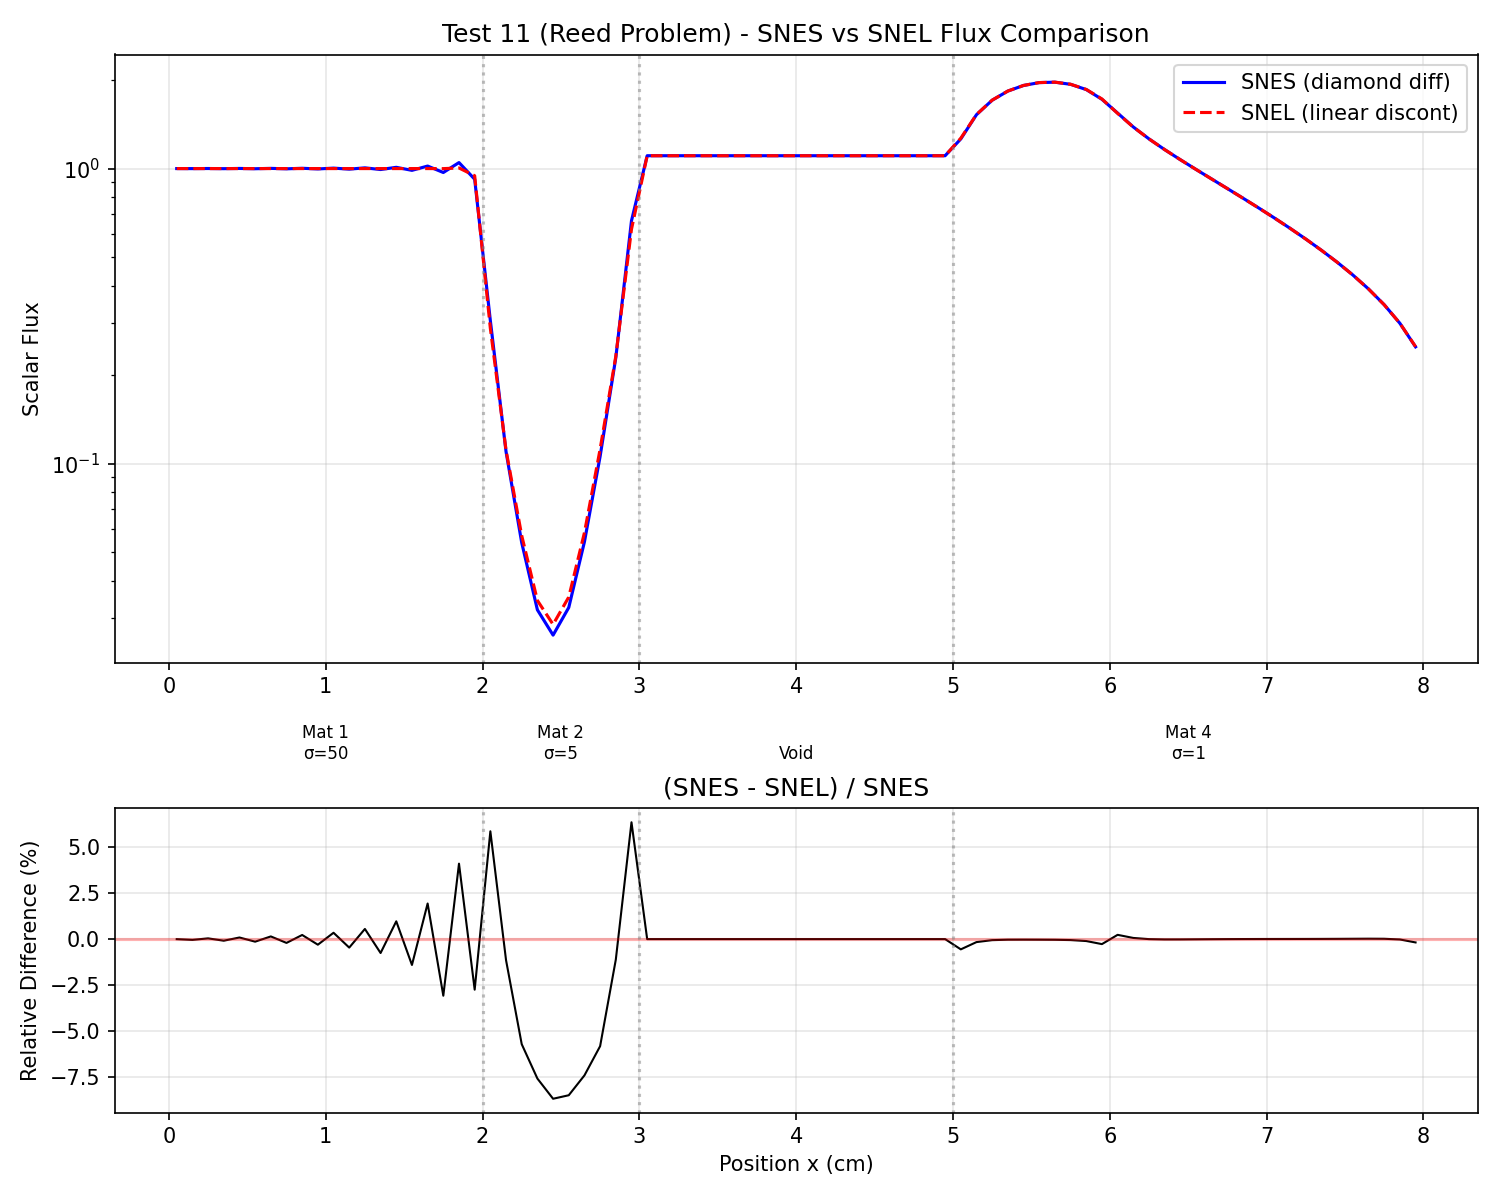
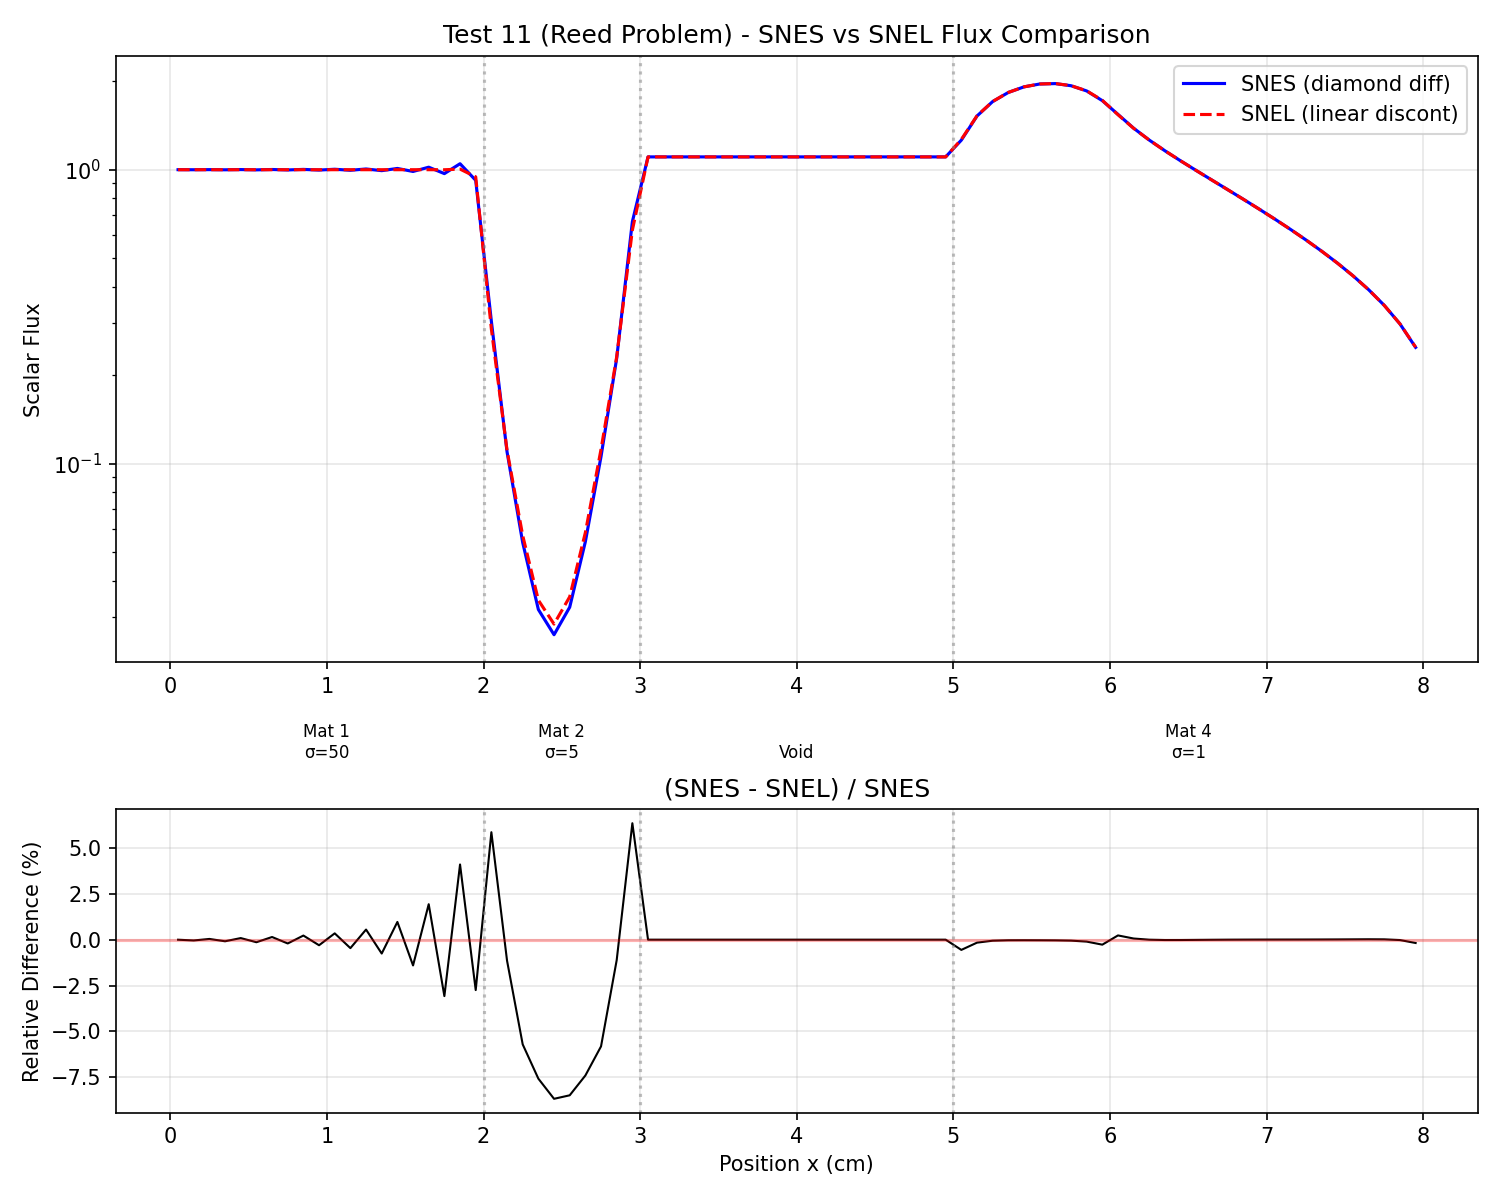
refactor: track verification outputs in make

diff --git a/verification.py b/verification.py
@@ -1,8 +1,16 @@
 import matplotlib.pyplot as plt
-import re
 import glob
-import subprocess
 from pathlib import Path
+
+KEFF_PATTERN = "K EFFECTIVE"
+PLOT_OUTPUTS = [
+    "images/figures/keff_results.png",
+    "images/figures/test11_flux_comparison.png",
+]
+DOCS_PLOT_OUTPUTS = [
+    "docs/docs/images/keff_results.png",
+    "docs/docs/images/test11_flux_comparison.png",
+]
 
 
 def write_plot_gallery(image_paths):
@@ -79,12 +87,27 @@ def write_plot_gallery(image_paths):
     )
 
 
+def extract_keff_values(pattern):
+    """Extract k-effective values from matching output files."""
+    values = []
+    for filepath in sorted(glob.glob(pattern)):
+        with open(filepath, encoding="utf-8") as handle:
+            for line in handle:
+                if KEFF_PATTERN not in line:
+                    continue
+                values.append(float(line.split("=")[-1].strip()))
+                break
+    if not values:
+        raise ValueError(f"No {KEFF_PATTERN!r} lines found for pattern {pattern!r}")
+    return values
+
+
 def read_flux(filepath):
     """Read flux data from file, returning positions and flux values."""
     positions = []
     fluxes = []
-    with open(filepath) as f:
-        for line in f:
+    with open(filepath, encoding="utf-8") as handle:
+        for line in handle:
             line = line.strip()
             if not line or line.startswith("#"):
                 continue
@@ -101,109 +124,77 @@ def add_material_annotations(ax):
     ax.axvline(x=3.0, color="gray", linestyle=":", alpha=0.5)
     ax.axvline(x=5.0, color="gray", linestyle=":", alpha=0.5)
 
-# Run the tests and extract K_EFF values for snes
-subprocess.run(["make", "clobber"])
-subprocess.run(["make", "tests"])
+def plot_keff_results():
+    """Plot k-effective values for both schemes."""
+    snes = extract_keff_values("qa/*.outs")
+    snel = extract_keff_values("qa/*.outl")
+    n = len(snes)
+    x = range(1, n + 1)
+    xc = list(range(n + 2))
+    yc = [1 for _ in xc]
 
-# Extract K_EFF values for snes
-with open("/tmp/keffs", "w", encoding="utf-8") as f_out:
-    for file in sorted(glob.glob("qa/*.outs")):
-        with open(file, "r", encoding="utf-8") as f_in:
-            for line in f_in:
-                if "K EFFECTIVE" in line:
-                    match = re.search(r"K[ ]*EFFECTIVE[ ]*=[ ]*([0-9.]+)", line)
-                    if match:
-                        f_out.write(match.group(1) + "\n")
-                    else:
-                        print(f"No match found in line: {line}")
+    plt.figure(figsize=(20, 10))
+    plt.plot(x, snes, "o", color="orange", markersize=26, label="Diamond-difference")
+    plt.plot(x, snel, "d", color="indigo", markersize=18, label="Linear discontinuous")
+    plt.plot(xc, yc, "k--", label="Critical ($k_\\mathrm{eff}=1$)")
+    plt.xlim([0.5, n + 0.5])
+    plt.ylim([0.5, 1.1])
+    plt.xlabel("Test problem number", fontsize=20)
+    plt.ylabel("$k_\\mathrm{eff}$", fontsize=20)
+    plt.title("$k_{\\text{eff}}$ results", fontsize=30)
+    plt.legend(fontsize=18, shadow=True, borderpad=1.0, labelspacing=1.2)
+    plt.grid()
+    plt.xticks(x)
+    plt.savefig(PLOT_OUTPUTS[0])
+    plt.savefig(DOCS_PLOT_OUTPUTS[0])
+    plt.close()
 
-# Run the tests and extract K_EFF values for snel
-subprocess.run(["make", "clean"])
-subprocess.run(["make", "testl"])
-# Extract K_EFF values for snel
-with open("/tmp/keffl", "w", encoding="utf-8") as f_out:
-    for file in sorted(glob.glob("qa/*.outl")):
-        with open(file, "r", encoding="utf-8") as f_in:
-            for line in f_in:
-                if "K EFFECTIVE" in line:
-                    match = re.search(r"K[ ]*EFFECTIVE[ ]*=[ ]*([0-9.]+)", line)
-                    if match:
-                        f_out.write(match.group(1) + "\n")
-                    else:
-                        print(f"No match found in line: {line}")
 
-# Read the K_EFF values from the files
-with open("/tmp/keffs", "r", encoding="utf-8") as f:
-    keffs = f.read()
-with open("/tmp/keffl", "r", encoding="utf-8") as f:
-    keffl = f.read()
+def plot_reed_flux_comparison():
+    """Plot the Reed problem flux comparison."""
+    pos_snes, flux_snes = read_flux("qa/snestp011.flxs")
+    pos_snel, flux_snel = read_flux("qa/snestp011.flxl")
 
-# Convert the K_EFF values to float and prepare for plotting
-snes = [float(s) for s in keffs.split()]
-snel = [float(s) for s in keffl.split()]
-n = len(snes)
-x = range(1, n+1)
-xc = [x for x in range(n+2)]  # Critical curve
-yc = [1 for i in xc]          # Critical curve
+    fig, (ax1, ax2) = plt.subplots(2, 1, figsize=(10, 8), height_ratios=[2, 1])
 
-# Plot the K_EFF results
-plt.figure(figsize=(20, 10))
-plt.plot(x, snes, 'o', color='orange', markersize=26, label="Diamond-difference")
-plt.plot(x, snel, 'd', color='indigo', markersize=18, label="Linear discontinuous")
-plt.plot(xc, yc, 'k--', label="Critical ($k_\\mathrm{eff}=1$)")
-plt.xlim([0.5, n+0.5])
-plt.ylim([0.5, 1.1])
-plt.xlabel("Test problem number", fontsize=20)
-plt.ylabel("$k_\\mathrm{eff}$", fontsize=20)
-plt.title("$k_{\\text{eff}}$ results", fontsize=30)
-plt.legend(fontsize=18, shadow=True, borderpad=1.0, labelspacing=1.2)
-plt.grid()
-plt.xticks(x)
-plt.savefig("images/figures/keff_results.png")
-plt.savefig("docs/docs/images/keff_results.png")
+    ax1.plot(pos_snes, flux_snes, "b-", label="SNES (diamond diff)", linewidth=1.5)
+    ax1.plot(pos_snel, flux_snel, "r--", label="SNEL (linear discont)", linewidth=1.5)
+    ax1.set_ylabel("Scalar Flux")
+    ax1.set_title("Test 11 (Reed Problem) - SNES vs SNEL Flux Comparison")
+    ax1.legend()
+    ax1.grid(True, alpha=0.3)
+    ax1.set_yscale("log")
+    add_material_annotations(ax1)
 
-# Plot test 11 (Reed problem) flux comparison
-pos_snes, flux_snes = read_flux("qa/snestp011.flxs")
-pos_snel, flux_snel = read_flux("qa/snestp011.flxl")
+    ax1.text(1.0, 0.01, "Mat 1\nσ=50", ha="center", fontsize=8)
+    ax1.text(2.5, 0.01, "Mat 2\nσ=5", ha="center", fontsize=8)
+    ax1.text(4.0, 0.01, "Void", ha="center", fontsize=8)
+    ax1.text(6.5, 0.01, "Mat 4\nσ=1", ha="center", fontsize=8)
 
-fig, (ax1, ax2) = plt.subplots(2, 1, figsize=(10, 8), height_ratios=[2, 1])
-
-# Top plot: absolute fluxes (log scale)
-ax1.plot(pos_snes, flux_snes, "b-", label="SNES (diamond diff)", linewidth=1.5)
-ax1.plot(pos_snel, flux_snel, "r--", label="SNEL (linear discont)", linewidth=1.5)
-ax1.set_ylabel("Scalar Flux")
-ax1.set_title("Test 11 (Reed Problem) - SNES vs SNEL Flux Comparison")
-ax1.legend()
-ax1.grid(True, alpha=0.3)
-ax1.set_yscale("log")
-add_material_annotations(ax1)
-
-# Add material labels
-ax1.text(1.0, 0.01, "Mat 1\nσ=50", ha="center", fontsize=8)
-ax1.text(2.5, 0.01, "Mat 2\nσ=5", ha="center", fontsize=8)
-ax1.text(4.0, 0.01, "Void", ha="center", fontsize=8)
-ax1.text(6.5, 0.01, "Mat 4\nσ=1", ha="center", fontsize=8)
-
-# Bottom plot: relative difference
-rel_diff = [
-    (s - l) / s * 100 if abs(s) > 1e-10 else 0
-    for s, l in zip(flux_snes, flux_snel)
-]
-ax2.plot(pos_snes, rel_diff, "k-", linewidth=1)
-ax2.set_xlabel("Position x (cm)")
-ax2.set_ylabel("Relative Difference (%)")
-ax2.set_title("(SNES - SNEL) / SNES")
-ax2.grid(True, alpha=0.3)
-ax2.axhline(y=0, color="r", linestyle="-", alpha=0.3)
-add_material_annotations(ax2)
-
-plt.tight_layout()
-plt.savefig("images/figures/test11_flux_comparison.png", dpi=150)
-plt.savefig("docs/docs/images/test11_flux_comparison.png", dpi=150)
-
-write_plot_gallery(
-    [
-        "images/figures/keff_results.png",
-        "images/figures/test11_flux_comparison.png",
+    rel_diff = [
+        (s - l) / s * 100 if abs(s) > 1e-10 else 0
+        for s, l in zip(flux_snes, flux_snel)
     ]
-)
+    ax2.plot(pos_snes, rel_diff, "k-", linewidth=1)
+    ax2.set_xlabel("Position x (cm)")
+    ax2.set_ylabel("Relative Difference (%)")
+    ax2.set_title("(SNES - SNEL) / SNES")
+    ax2.grid(True, alpha=0.3)
+    ax2.axhline(y=0, color="r", linestyle="-", alpha=0.3)
+    add_material_annotations(ax2)
+
+    plt.tight_layout()
+    plt.savefig(PLOT_OUTPUTS[1], dpi=150)
+    plt.savefig(DOCS_PLOT_OUTPUTS[1], dpi=150)
+    plt.close(fig)
+
+
+def main():
+    """Generate verification plots from existing test outputs."""
+    plot_keff_results()
+    plot_reed_flux_comparison()
+    write_plot_gallery(PLOT_OUTPUTS)
+
+
+if __name__ == "__main__":
+    main()

diff --git a/mkdocs/docs/verification.md b/mkdocs/docs/verification.md
@@ -29,11 +29,11 @@ Use the `check` helper to compare new outputs against references:
 ./check l
 ```
 
-The verification plot gathers `k_eff` values from the test outputs and writes
-an image used in the docs.
+The verification step rebuilds the test outputs when needed, then gathers
+`k_eff` values and flux data to write the images used in the docs.
 
 Generate the plot used above:
 
 ```bash
-uv run python verification.py
+make plots
 ```

diff --git a/README.md b/README.md
@@ -88,8 +88,8 @@ Generate the verification plots from the current test outputs:
 
     make plots
 
-This script rebuilds the test outputs for both schemes and refreshes the plots
-used in the README and docs.
+This rebuilds the test outputs for both schemes, then refreshes the plots used
+in the README and docs when verification inputs have changed.
 
 To inspect all generated plots in one view:
 